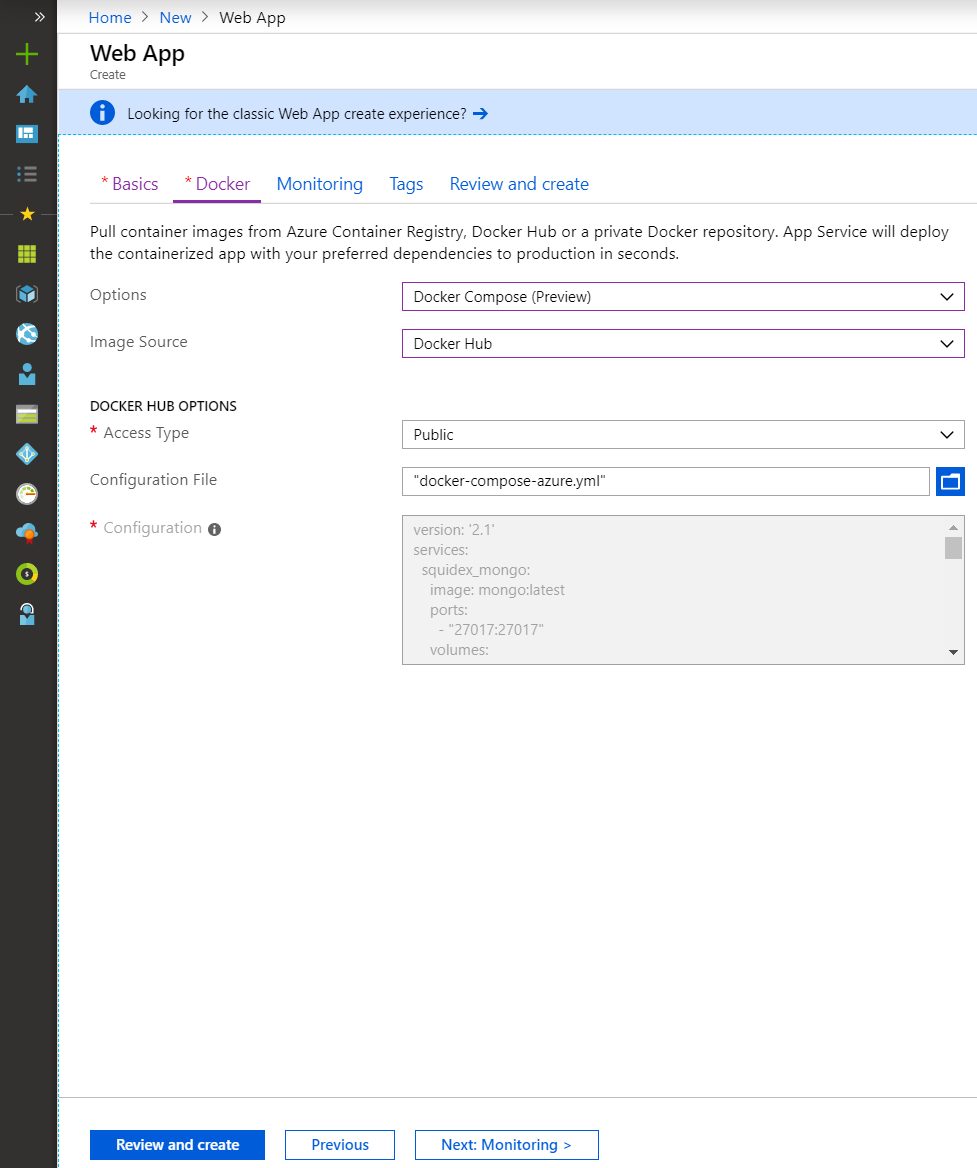
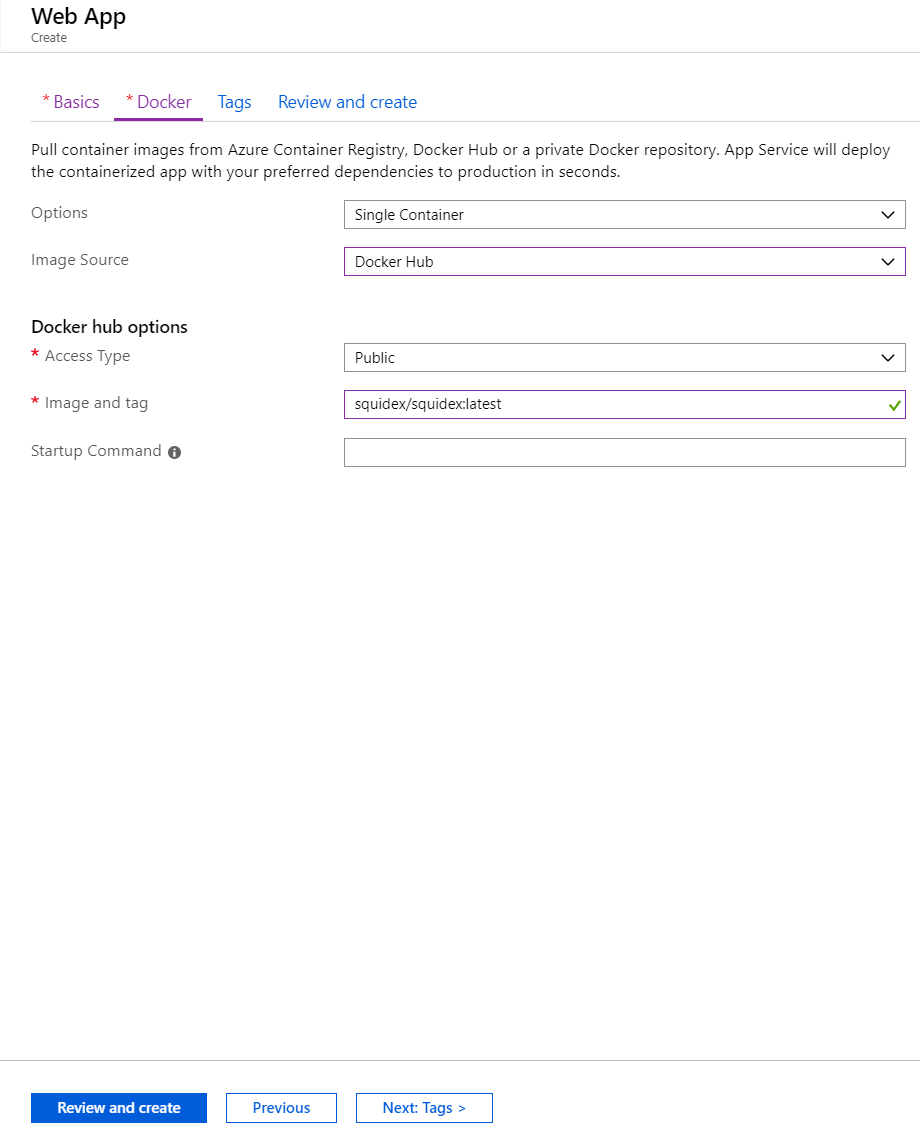
Update Docs for Azure without CosmosDB to actually work

Changed region(s): [[0.0, 0.0, 1.0, 1.0], [0.213, 0.4325, 0.2435, 0.4634]]

diff --git a/01-getting-started/installation/install-azure.md b/01-getting-started/installation/install-azure.md
@@ -11,12 +11,9 @@ Before you start you have to setup a few things first:
 1. A resource group for all your squidex resources.
 2. A service plan to host squidex (Linux).
 3. A storage account for your assets and mongo db (general purpose v1 or v2).
+4. [Azure-CLI](https://docs.microsoft.com/en-us/cli/azure/install-azure-cli?view=azure-cli-latest) installed.
 
 ## 1. Create the web app
-
-You can find the docker-compose configurations for Azure here:
-
-> https://github.com/Squidex/squidex-docker/blob/master/standalone
 
 Create a new web app with the following `Basics`:
 
@@ -36,11 +33,28 @@ Go to your app service and scroll down to menu item `App Service logs` and turn 
 
 ## 3. Configure your storage account
 
-Go to your storage account instance, choose `Files` and create two file shares.
+Go to your storage account instance, choose `Files` and create a file share named 'etc-squidex-mongodb'.
 
-![Store Account settings](../../images/started/azure/storage.png)
+Choose `Blobs` and create a container named 'etc-squidex-assets'.
 
-## 4. Configure your application
+Choose `Access Keys` and copy one of the keys for the setup of the MongoDB and one Connection String for the setup of the squidex asset store.
+
+## 4. Create the container instance
+
+The following setup of the container instance can only be done using the azure-cli at the moment. Open a terminal, login to azure using _az login_ and run the following command. 
+
+```
+  az container create --resource-group [YOUR VALUE HERE] --name mongodb --image mongo --azure-file-volume-account-name [YOUR VALUE HERE] --azure-file-volume-account-key "[YOUR VALUE HERE]" --azure-file-volume-share-name etc-squidex-mongodb --azure-file-volume-mount-path "/data/mongoaz" --ports 27017 --cpu 2 --ip-address public --memory 2 --os-type Linux --protocol TCP --command-line "mongod --dbpath=/data/mongoaz --bind_ip_all"
+```
+
+This will create a container Instance with a single container running mongo db. 
+
+> **IMPORTANT**: At this point your MongoDB will run without authentication. Connect to it with a Tool of your choice like [Robo 3T](https://robomongo.org/) and create an admin user. After that run the above command again, but change the _--command-line_ argument to 
+```
+"mongod --dbpath=/data/mongoaz --bind_ip_all --auth"
+```
+
+## 5. Configure your application
 
 Go to the `Configuration section` and choose `Application settings` to configure squidex.
 
@@ -48,19 +62,7 @@ Go to the `Configuration section` and choose `Application settings` to configure
 
 ![All configuration values](../../images/started/azure/configuration.png)
 
-Sensitive values are hidden, but configuration values for external authentication providers are empty to turn them off.
-
-## 5. Configure your volumes
-
-Go to the `Configuration section` and choose `Path mappings` to configure volumes.
-
-Click `New Azure Storage Mount` and create the following mapping for your assets store.
-
-![Assets volume](../../images/started/azure/create-asset-volume.png)
-
-Click `New Azure Storage Mount` and create the following mapping for your mongo db store.
-
-![MongoDb volume](../../images/started/azure/create-mongodb-volume.png)
+Configuration values for external authentication providers are empty to turn them off.
 
 ## 6. All settings
 
@@ -69,18 +71,48 @@ All basic settings:
 ```json
 [
   {
+    "name": "ASSETSTORE__AZUREBLOB__CONNECTIONSTRING",
+    "value": "[YOUR VALUE HERE]",
+    "slotSetting": false
+  },
+  {
+    "name": "ASSETSTORE__AZUREBLOB__CONTAINERNAME",
+    "value": "etc-squidex-assets",
+    "slotSetting": false
+  },
+  {
+    "name": "ASSETSTORE__TYPE",
+    "value": "AzureBlob",
+    "slotSetting": false
+  },
+  {
+    "name": "DOCKER_REGISTRY_SERVER_PASSWORD",
+    "value": "",
+    "slotSetting": false
+  },
+  {
     "name": "DOCKER_REGISTRY_SERVER_URL",
     "value": "https://index.docker.io",
     "slotSetting": false
   },
   {
+    "name": "DOCKER_REGISTRY_SERVER_USERNAME",
+    "value": "",
+    "slotSetting": false
+  },
+  {
+    "name": "EVENTSTORE__MONGODB__CONFIGURATION",
+    "value": "mongodb://[YOUR ADMIN]:[YOUR PASSWORD]@[YOUR IP]:27017",
+    "slotSetting": false
+  },
+  {
     "name": "IDENTITY__ADMINEMAIL",
-    "value": "[ADD YOUR VALUE HERE]",
+    "value": "hello@squidex.io",
     "slotSetting": false
   },
   {
     "name": "IDENTITY__ADMINPASSWORD",
-    "value": "[ADD YOUR VALUE HERE]",
+    "value": "[YOUR VALUE HERE]",
     "slotSetting": false
   },
   {
@@ -114,23 +146,23 @@ All basic settings:
     "slotSetting": false
   },
   {
-    "name": "URLS__BASEURL",
-    "value": "[ADD YOUR VALUE HERE]",
+    "name": "STORE__MONGODB__CONFIGURATION",
+    "value": "mongodb://[YOUR ADMIN]:[YOUR PASSWORD]@[YOUR IP]:27017",
     "slotSetting": false
   },
   {
-    "name": "URLS__ENFORCEHTTPS",
-    "value": "true",
+    "name": "URLS__BASEURL",
+    "value": "https://squidex-test.azurewebsites.net/",
     "slotSetting": false
   },
   {
     "name": "VIRTUAL_HOST",
-    "value": "[ADD YOUR VALUE HERE]",
+    "value": "squidex-test.azurewebsites.net",
     "slotSetting": false
   },
   {
-    "name": "WEBSITES_ENABLE_APP_SERVICE_STORAGE",
-    "value": "false",
+    "name": "WEBSITE_HTTPLOGGING_RETENTION_DAYS",
+    "value": "10",
     "slotSetting": false
   }
 ]
